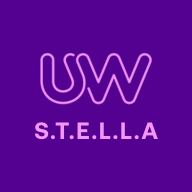
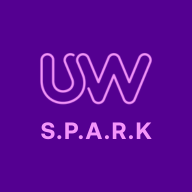
Add files via upload

Changed region(s): [[0.1562, 0.625, 0.8438, 0.75]]

diff --git a/index.html b/index.html
@@ -3,7 +3,7 @@
 <head>
   <meta charset="UTF-8" />
   <meta name="viewport" content="width=device-width, initial-scale=1.0" />
-  <meta name="description" content="STELLA - Smart Tool for Earning, Listing, Logging & Action" />
+  <meta name="description" content="SPARK - System, Progress, Action, Results, Knowledge" />
   <link rel="manifest" href="manifest.json" />
   <meta name="theme-color" content="#9b0f63" />
   <link rel="icon" type="image/png" href="assets/icon-192.png" />
@@ -11,13 +11,13 @@
   <link rel="preconnect" href="https://fonts.gstatic.com" crossorigin>
   <link href="https://fonts.googleapis.com/css2?family=Open+Sans:wght@400;600;700&display=swap" rel="stylesheet">
   <link rel="stylesheet" href="style.css" />
-  <title>STELLA</title>
+  <title>SPARK</title>
 </head>
 <body>
   <header>
     <div style="display: flex; align-items: center; justify-content: center; gap: 1rem; flex-wrap: wrap;">
       <img src="UWLogoTP.png" alt="UW Logo" style="height: 60px;" />
-      <h1>STELLA</h1>
+      <h1>SPARK</h1>
       <button id="burgerMenuBtn" class="burger-menu" aria-label="Open menu" style="display:none; margin-left:auto; font-size:2em; background:none; border:none; cursor:pointer;">&#9776;</button>
     </div>
     <nav>
@@ -75,7 +75,7 @@
     <div class="modal-content">
       <div class="modal-header">
         <img src="UWLogoTP.png" alt="UW Logo" style="height: 40px;" />
-        <h2>Welcome to STELLA!</h2>
+        <h2>Welcome to SPARK!</h2>
       </div>
       <div class="modal-body">
         <p>Are you a new partner (less than 30 days, <6 customers) or an established partner?</p>
@@ -136,11 +136,11 @@
     <section id="home" class="tab">
       <h2>Welcome</h2>
       <p>
-        🌟 <strong>Welcome to STELLA</strong> - your Smart Tool for Earning, Listing, Logging & Action<br />
+        �� <strong>Welcome to SPARK</strong> - your System for Progress, Action, Results & Knowledge<br />
         Your Smart Team-Builder, Coach & Daily Companion.
       </p>
       <p>
-        Whether you're just starting out or building momentum, STELLA is here to guide you every step of the way.<br />
+        Whether you're just starting out or building momentum, SPARK is here to guide you every step of the way.<br />
         Track your progress. Get expert scripts. Build belief. Take action — daily.
       </p>
       <p>

diff --git a/app.js b/app.js
@@ -479,7 +479,7 @@ function showUpdateBanner() {
   banner.style.textAlign = 'center';
   banner.style.zIndex = '9999';
   banner.innerHTML = `
-    <strong>🔄 A new version of STELLA is available.</strong><br>
+    <strong>🔄 A new version of SPARK is available.</strong><br>
     Please close and reopen the app to update.
     <button id="reloadNowBtn" style="margin-left:1em; background:white; color:#560691; border:none; border-radius:4px; padding:0.5em 1em; font-weight:bold; cursor:pointer;">Reload Now</button>
   `;

diff --git a/data.js b/data.js
@@ -14,7 +14,7 @@ let AppData = {
 };
 
 function loadAppData() {
-  const stored = localStorage.getItem('stella-app');
+  const stored = localStorage.getItem('spark-app');
   if (stored) {
     try {
       AppData = JSON.parse(stored);
@@ -25,7 +25,7 @@ function loadAppData() {
 }
 
 function saveAppData() {
-  localStorage.setItem('stella-app', JSON.stringify(AppData));
+  localStorage.setItem('spark-app', JSON.stringify(AppData));
 }
 
 function addContact(name, category, notes = '') {

diff --git a/sw.js b/sw.js
@@ -1,4 +1,4 @@
-const CACHE_NAME = "stella-cache-v1";
+const CACHE_NAME = "spark-cache-v1";
 const urlsToCache = [
   "./",
   "./index.html",

diff --git a/README.md b/README.md
@@ -1,7 +1,6 @@
+# UW Smart Start Assistant – SPARK
 
-# UW Smart Start Assistant – STELLA
-
-STELLA (Smart Tracker for Engaging Leads & Launching Activity) is a Progressive Web App (PWA) designed to help Utility Warehouse (UW) partners build, organise, and manage their contact list using the FROGS framework:
+SPARK (System, Progress, Action, Results, Knowledge) is a Progressive Web App (PWA) designed to help Utility Warehouse (UW) partners build, organise, and manage their contact list using the FROGS framework:
 - **F**riends & Family
 - **R**ecreation
 - **O**ccupation
@@ -33,7 +32,7 @@ It also helps partners track performance metrics and develop consistent business
 - `data.js` — Stats tracking and contact rendering
 - `import.js` — CSV import and categorisation logic
 - `UWLogoTP.png` — UW logo file for branding
-- `favicon.ico` — (optional) STELLA branding for tab icon
+- `favicon.ico` — (optional) SPARK branding for tab icon
 
 ---
 
@@ -61,7 +60,7 @@ Jane Doe,Homeowner and open to side income
 
 ## 🔐 Data Privacy
 
-- All data is stored **locally** in the user’s browser.
+- All data is stored **locally** in the user's browser.
 - No data is shared, stored online, or accessible to others by default.
 
 ---
@@ -80,5 +79,5 @@ Jane Doe,Homeowner and open to side income
 
 ## 🤝 Acknowledgements
 
-Built with love for the UW Partner community by Alex Cameron. STELLA is designed to make the early days of your business easier, more fun, and more productive.
+Built with love for the UW Partner community by Alex Cameron. SPARK is designed to make the early days of your business easier, more fun, and more productive.
 
